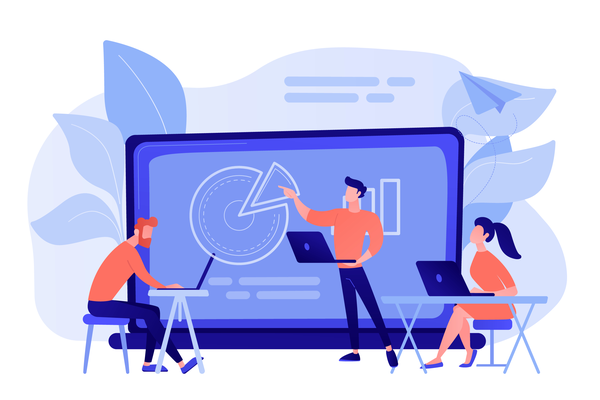
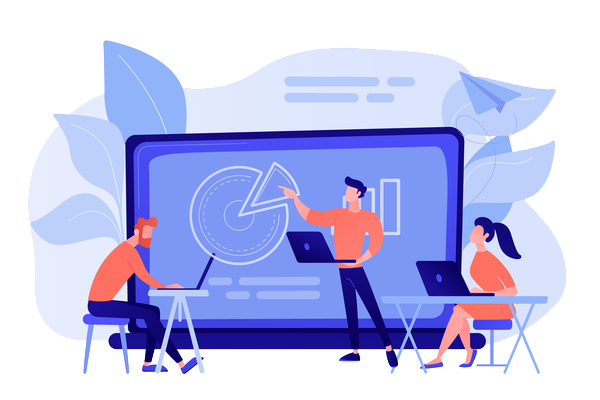
Converted all jpgs to png

diff --git a/src/app/about/about.component.html b/src/app/about/about.component.html
@@ -62,18 +62,18 @@
       <div class="mb-fix" fxLayout="row" fxFlex="50" fxLayoutGap="20px" fxLayoutGap.xs="20px" fxLayout.sm="row"
            fxLayout.xs="column">
         <div fxFlex="50" fxFlex.xs="100" fxFlex.sm="50" class="circle-img-div card" align="center">
-          <img class="circle-img p-20" src="./assets/test.jpg" />
+          <img class="circle-img p-20" src="./assets/test.png" />
           <p class=" mat-subheading-1 p-10">Every Week Test Will Be Conducted</p>
         </div>
         <div fxFlex="50" fxFlex.xs="100" fxFlex.sm="50" class="circle-img-div card" align="center">
-          <img class="circle-img p-20" src="./assets/student_per_batch.jpg" />
+          <img class="circle-img p-20" src="./assets/student_per_batch.png" />
           <p class="mat-subheading-1 p-10">Limited Students Per Batch</p>
         </div>
       </div>
 
       <div fxLayout="row" fxFlex="50" fxLayoutGap="20px" fxLayoutGap.xs="20px" fxLayout.sm="row" fxLayout.xs="column">
         <div fxFlex="50" fxFlex.xs="100" fxFlex.sm="50" class="circle-img-div card" align="center">
-          <img class="circle-img p-20" src="./assets/book.jpg" />
+          <img class="circle-img p-20" src="./assets/book.png" />
           <p class="mat-subheading-1 p-10">Well Prepared Study Material</p>
         </div>
         <div fxFlex="50" fxFlex.xs="100" fxFlex.sm="50" class="circle-img-div card" align="center">
@@ -171,19 +171,19 @@
 
     <div fxLayout="row" fxLayout.sm="column" fxLayout.xs="column" fxLayoutGap="20px" align="center">
       <div fxFlex="30" fxFlex.xs="100" fxFlex.sm="100" class="img-card-div mb-20 card" align="center">
-        <img class="img-card" src="./assets/student-teacher_22.jpg" />
+        <img class="img-card" src="./assets/student-teacher_22.png" />
         <p class="mat-subheading-1 img-card-text p-10">
           Be a part of one of the and best commerce tutorials in South Mumbai
         </p>
       </div>
       <div fxFlex="30" fxFlex.xs="100" fxFlex.sm="100" class="img-card-div mb-20 card" align="center">
-        <img class="img-card" src="./assets/student-teacher_11.jpg" />
+        <img class="img-card" src="./assets/student-teacher_11.png" />
         <p class="mat-subheading-1 img-card-text p-10">
           Champion the cause of education with training from our experienced faculty
         </p>
       </div>
       <div fxFlex="30" fxFlex.xs="100" fxFlex.sm="100" class="img-card-div mb-20 card" align="center">
-        <img class="img-card" src="./assets/student-teacher_33.jpg" />
+        <img class="img-card" src="./assets/student-teacher_33.png" />
         <p class="mat-subheading-1 img-card-text p-10">
           One to one attention between teachers and students
         </p>

diff --git a/src/app/course/college/college.component.html b/src/app/course/college/college.component.html
@@ -7,7 +7,7 @@
      fxLayout="column" fxLayout.sm="column"
      fxLayout.xs="column" fxLayoutGap="20px" align="center">
   <div fxFlex="60" fxFlex.sm="80" fxFlex.xs="90">
-    <img class="img-course" src="./assets/college.jpg" />
+    <img class="img-course" src="./assets/college.png" />
   </div>
   <div class="content" fxFlex="60" fxFlex.sm="80" fxFlex.xs="100" *ngFor="let s of standard">
     <mat-card>

diff --git a/src/app/course/degree/degree.component.html b/src/app/course/degree/degree.component.html
@@ -7,7 +7,7 @@
      fxLayout="column" fxLayout.sm="column"
      fxLayout.xs="column" fxLayoutGap="20px" align="center">
   <div fxFlex="60" fxFlex.sm="80" fxFlex.xs="90">
-    <img class="img-course" src="./assets/degree.jpg" />
+    <img class="img-course" src="./assets/degree.png" />
   </div>
   <div class="content" fxFlex="60" fxFlex.sm="80" fxFlex.xs="100" *ngFor="let s of standard">
     <mat-card>

diff --git a/src/app/course/school/school.component.html b/src/app/course/school/school.component.html
@@ -7,7 +7,7 @@
      fxLayout="column" fxLayout.sm="column"
      fxLayout.xs="column" fxLayoutGap="20px" align="center">
   <div fxFlex="60" fxFlex.sm="80" fxFlex.xs="90">
-    <img class="img-course" src="./assets/school.jpg" />
+    <img class="img-course" src="./assets/school.png" />
   </div>
   <div class="content" fxFlex="60" fxFlex.sm="80" fxFlex.xs="100" *ngFor="let s of standard">
     <mat-card>

diff --git a/src/app/testimonials/testimonials.component.html b/src/app/testimonials/testimonials.component.html
@@ -3,7 +3,7 @@
 <div  fxLayout="row" fxLayout.sm="column" class="pb-40"
 fxLayout.xs="column" *ngIf="!isLoading">
   <div fxFlex="45" fxFlex.sm="100" fxFlex.xs="100" class="div-one" align="center">
-    <img class="img-div-one" src="./assets/testimonial.jpg" />
+    <img class="img-div-one" src="./assets/testimonial.png" />
     <p class="mat-display-3">
       OUR HAPPY STUDENTS
     </p>
